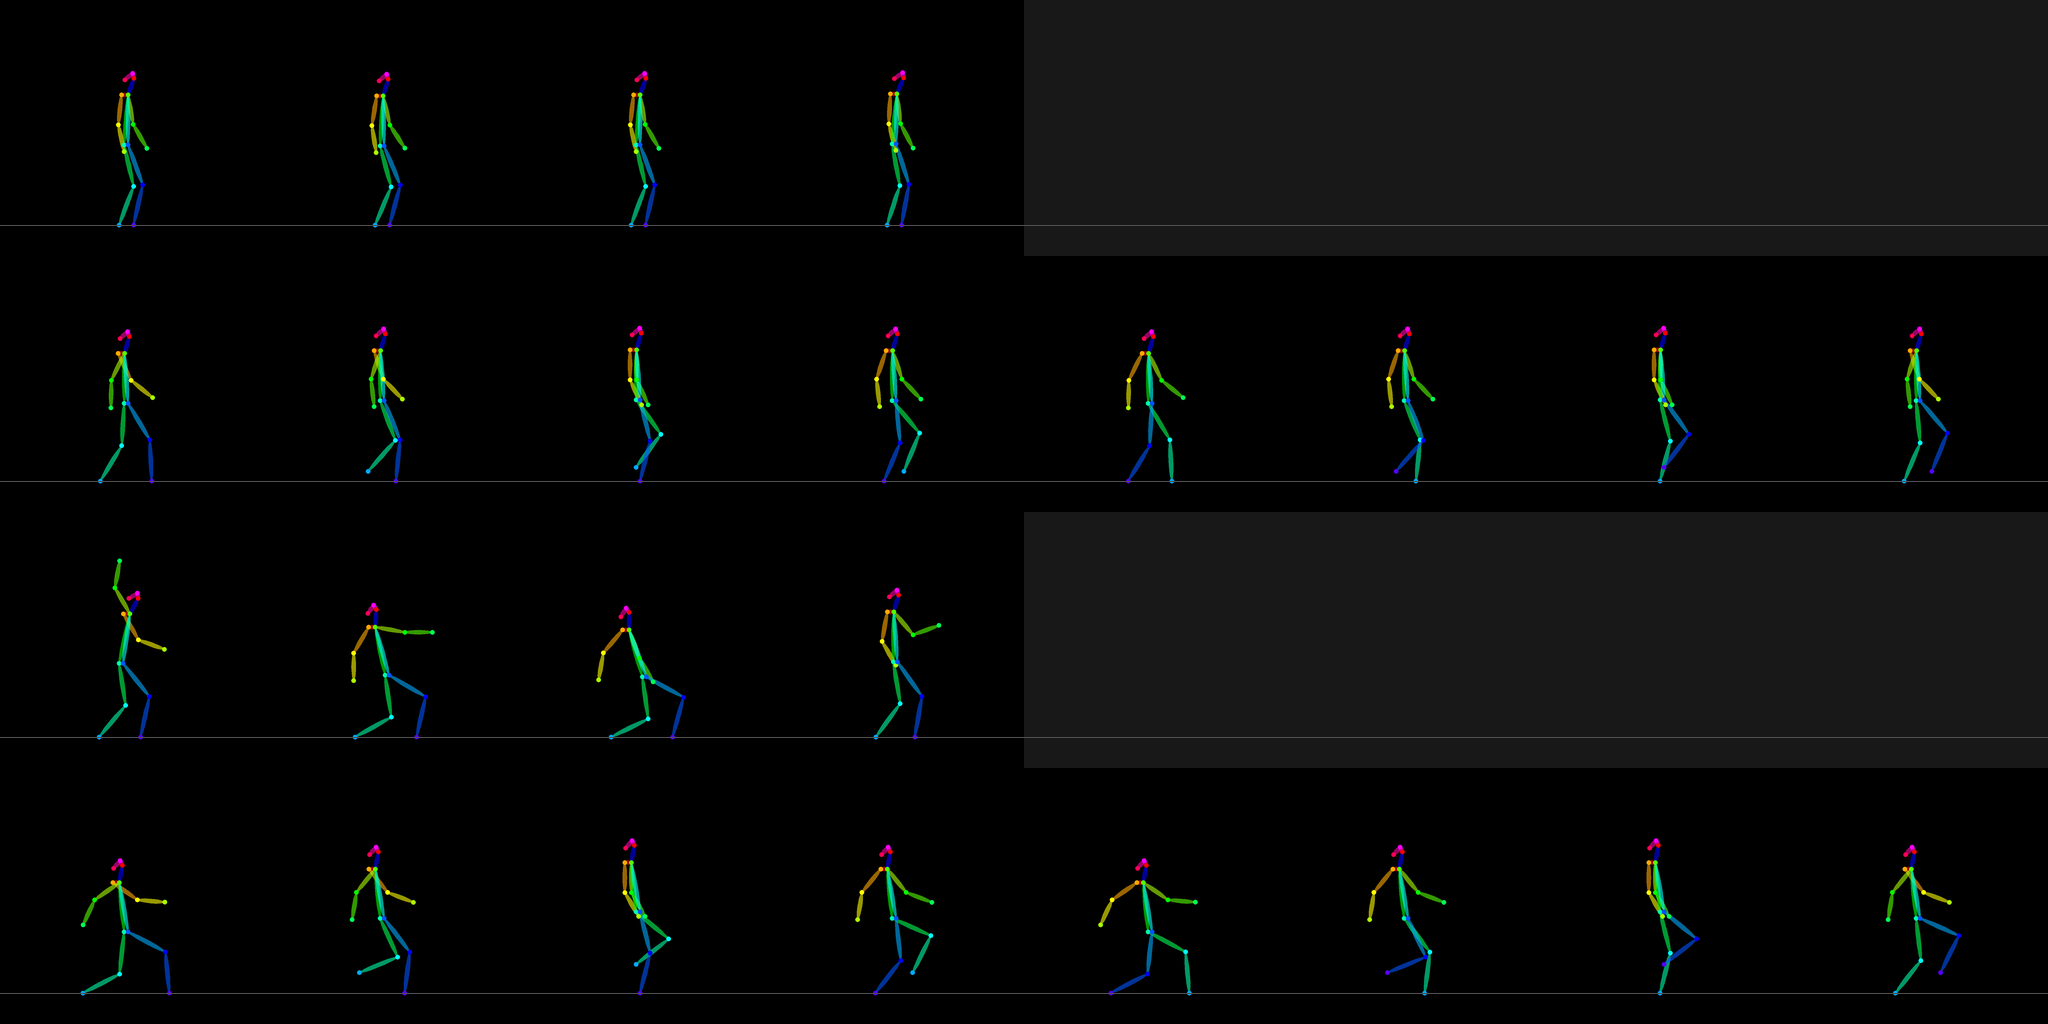
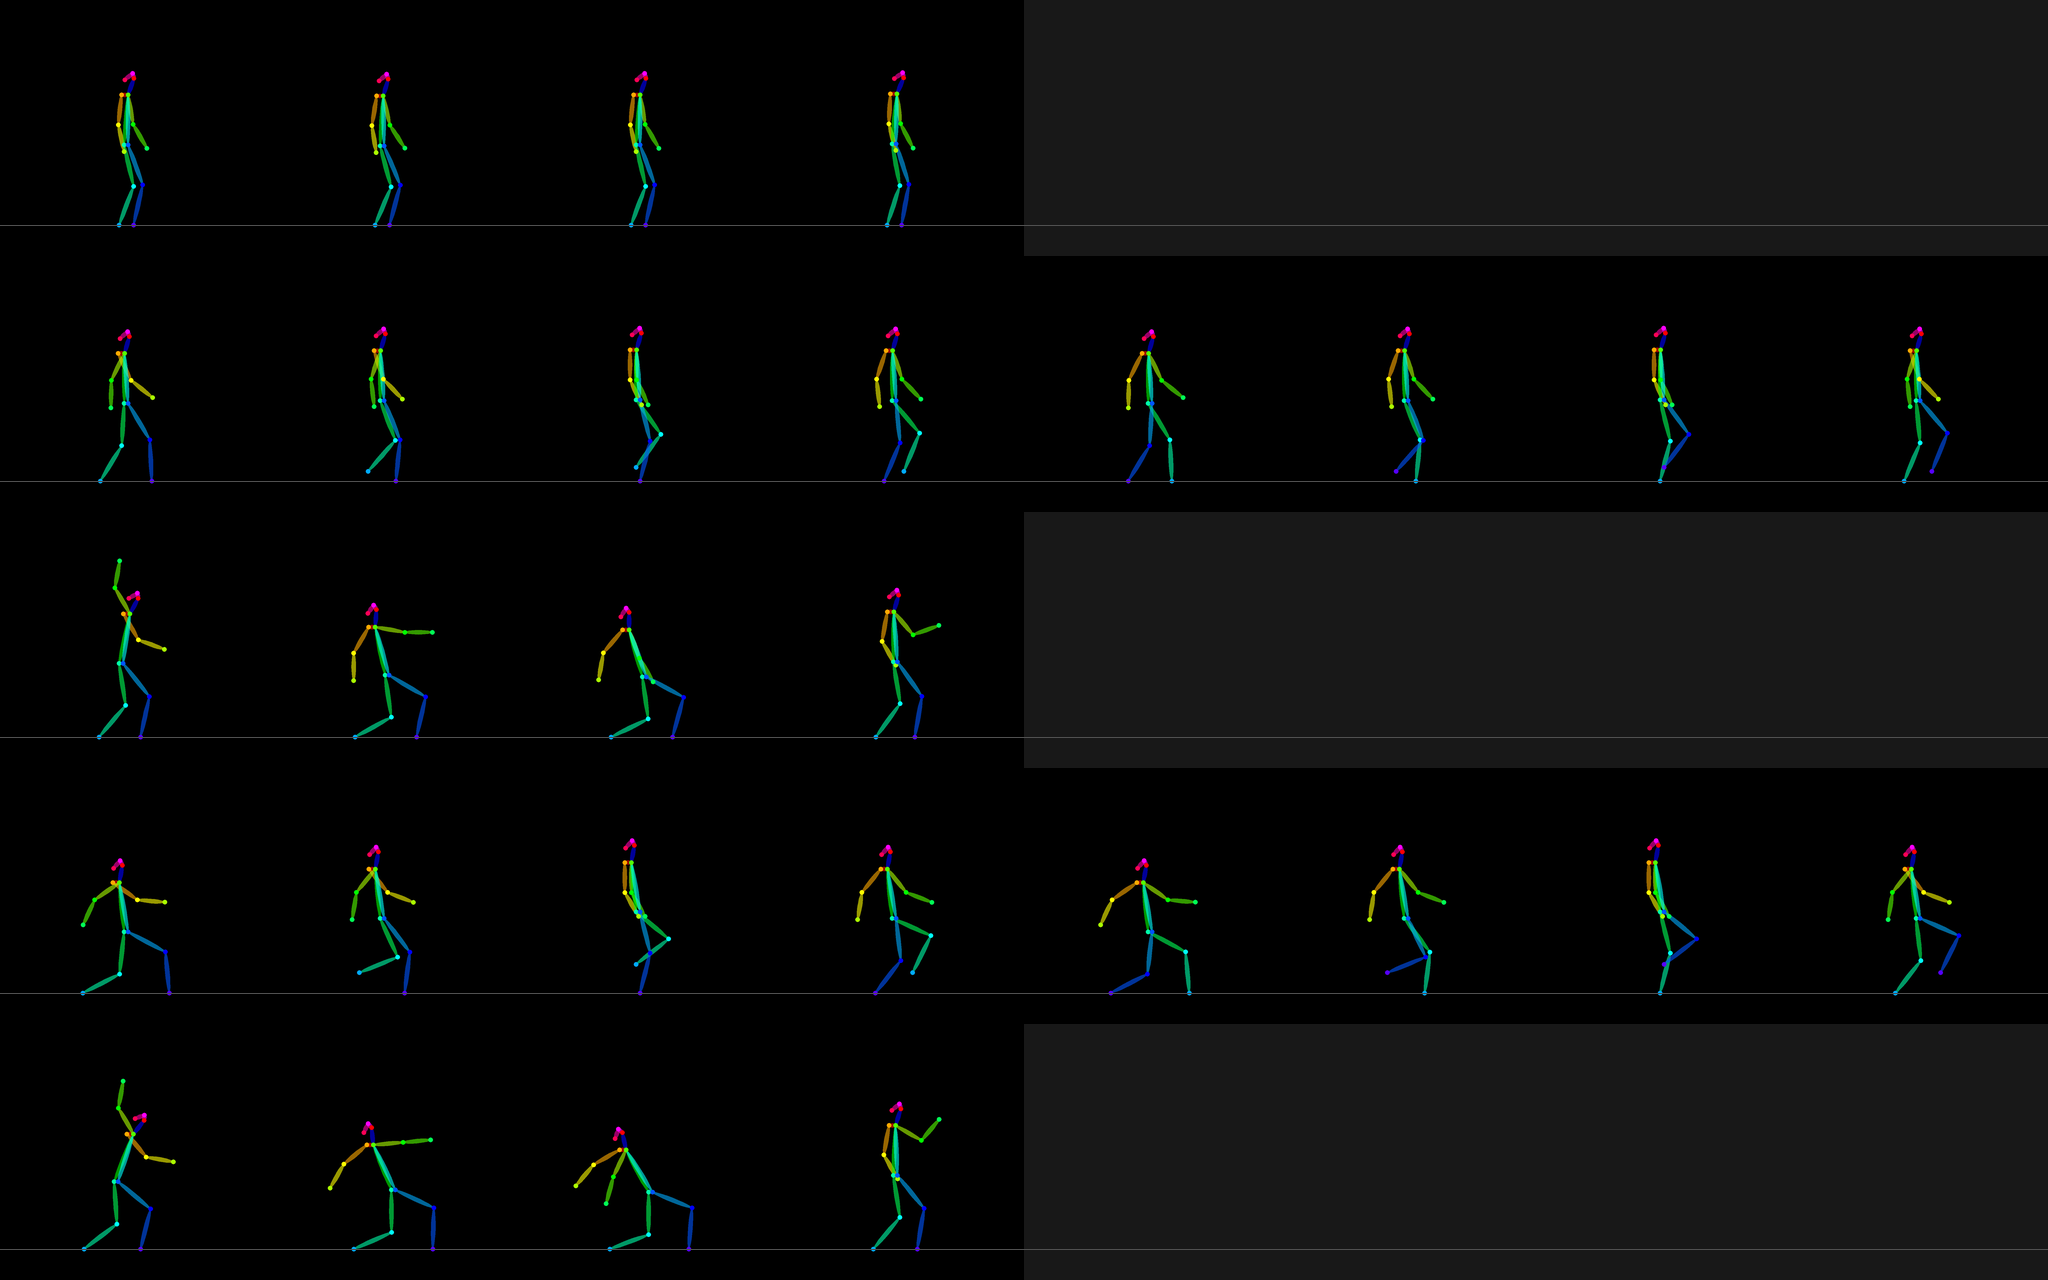
bench(comfyui): run 9, exaggerated attack maps
poses/attack-wide/ raises the sword arm and lengthens the lunge. The legs
follow; the weapon does not, since the pose map has no joint for it and the
LoRA keeps it where its training frames held it.

diff --git a/benchmarks/provider-frame-sets/comfyui/run-benchmark.py b/benchmarks/provider-frame-sets/comfyui/run-benchmark.py
@@ -44,6 +44,8 @@ Lanes, each over every motion in poses/ (idle 4, walk 8, attack 4) for each char
   LW-W       run 8: the LoRA retrained with run 7's best wide-walk frames added (train-lora.py
   LWE4-W     --set w), final and epoch 4, on the wide walk maps; LW-W also renders idle and
              attack on their usual maps.
+  LW-A       run 9: LW-W with the exaggerated attack maps in poses/attack-wide/ (sword arm
+  LW-A-P1.0  overhead, then straight out, a longer lunge), at pose 0.75 and 1.0.
   K-0.55   keyframe: every frame starts from the character's keyframe (--keyframes
   K-0.70   <dir>/<character>.png) encoded as the latent, redrawn at denoise 0.55 or 0.70 with
            the pose ControlNet at 0.90, so colours, props and proportions carry over.
@@ -96,7 +98,10 @@ LORA_LANES = {"L": {}, "LI": {"ip": True}, "LSI": {"ip": True, "sheet": True},
               "L-0.5-W": {"strength": 0.5, "poses": {"walk": "walk-wide"}},
               # run 8: LoRAs retrained with run 7's wide-walk frames added (train-lora.py --set w)
               "LW-W": {"set": "w", "poses": {"walk": "walk-wide"}},
-              "LWE4-W": {"set": "w", "epoch": 4, "poses": {"walk": "walk-wide"}}}
+              "LWE4-W": {"set": "w", "epoch": 4, "poses": {"walk": "walk-wide"}},
+              # run 9: the exaggerated attack maps (poses/attack-wide/); render with --motions attack
+              "LW-A": {"set": "w", "poses": {"walk": "walk-wide", "attack": "attack-wide"}},
+              "LW-A-P1.0": {"set": "w", "pose": 1.0, "poses": {"walk": "walk-wide", "attack": "attack-wide"}}}
 CHAR_LORA = "pixelkiln\\pxk-{character}{suffix}.safetensors"
 CHAR_LORA_STRENGTH = 0.8
 

diff --git a/benchmarks/provider-frame-sets/comfyui/poses/make-poses.py b/benchmarks/provider-frame-sets/comfyui/poses/make-poses.py
@@ -182,10 +182,23 @@ def attack(i):
     return body(**poses[i])
 
 
+def attack_wide(i):
+    """The strike above, exaggerated like walk-wide: the sword arm straight up behind the head
+    on the wind-up and straight out in front on the strike, a longer lunge, and
+    more lean, because the ControlNet draws less motion than the map shows (run 8)."""
+    poses = [
+        dict(lean=-18, crouch=40, near_foot=(90, 0), far_foot=(-120, 0), near_arm=(-150, -40), far_arm=(40, 40), hip_shift=-40),
+        dict(lean=26, crouch=55, near_foot=(150, 0), far_foot=(-150, 0), near_arm=(95, 0), far_arm=(-50, 20), hip_shift=45),
+        dict(lean=32, crouch=60, near_foot=(145, 0), far_foot=(-155, 0), near_arm=(-25, 10), far_arm=(-60, 20), hip_shift=50),
+        dict(lean=2, crouch=30, near_foot=(80, 0), far_foot=(-80, 0), near_arm=(60, 80), far_arm=(-10, 40), hip_shift=5),
+    ]
+    return body(**poses[i])
+
+
 def main():
     here = os.path.dirname(os.path.abspath(__file__))
     motions = {"idle": [idle(i) for i in range(4)], "walk": [walk(i) for i in range(8)], "attack": [attack(i) for i in range(4)],
-               "walk-wide": [walk_wide(i) for i in range(8)]}
+               "walk-wide": [walk_wide(i) for i in range(8)], "attack-wide": [attack_wide(i) for i in range(4)]}
     rows = []
     for name, frames in motions.items():
         os.makedirs(os.path.join(here, name), exist_ok=True)

diff --git a/benchmarks/provider-frame-sets/comfyui/README.md b/benchmarks/provider-frame-sets/comfyui/README.md
@@ -462,10 +462,39 @@ Retraining on the wide walk tidies the goblin's feet and keeps the stride,
 without hurting idle. It does not change the attack: the motion comes from the
 maps, and the attack maps still undershoot.
 
+## Run 9: an exaggerated attack, November 2026
+
+New maps in `poses/attack-wide/` (from `make-poses.py`): the sword arm up and
+back on the wind-up and straight out in front on the strike, a longer lunge
+(feet 300 px apart instead of 230) and more lean. Lanes LW-A and LW-A-P1.0
+render them with run 8's LoRA (`pxk-<character>-w`) at pose 0.75 and 1.0: 16
+frames at about 31.6 s, in [`results/run9`](results/run9) beside run 8's attack.
+
+- **Legs:** they follow. Both characters lunge deeper on the strike and
+  follow-through than in run 8.
+- **Weapon arm and weapon:** they mostly don't. The knight never raises the
+  sword on the wind-up and pushes it only partway out on the strike; in the
+  recover frame it holds it straight up, which the map does not ask for. The
+  goblin holds the club upright in all four frames, as in every run since the
+  LoRA.
+- **Pose 1.0:** about the same as 0.75.
+
+Overshooting the map moves the body but not the weapon. The OpenPose map has
+no joint for the prop, and the LoRA has only seen it in one or two positions,
+so it draws the prop where its training frames had it. A weapon that swings
+needs to be in the control image (a prop line in the pose map, or a lineart or
+depth control) or in training frames that show it raised and swung.
+
 ## Findings log
 
 What each run taught us about running this graph, newest first. Quality
 findings wait for the rubric scores.
+
+- **November 2026, run 9.** Exaggerated attack maps move the legs (a deeper
+  lunge) but not the weapon: the LoRA keeps the prop where its training
+  frames held it, and the OpenPose map has no joint for it. The swing has to
+  come from a prop drawn into a control image or from training frames with
+  the weapon raised.
 
 - **November 2026, run 8.** Retraining the character LoRA with the approved
   wide-walk frames added keeps the full stride and cleans up the goblin's feet,
